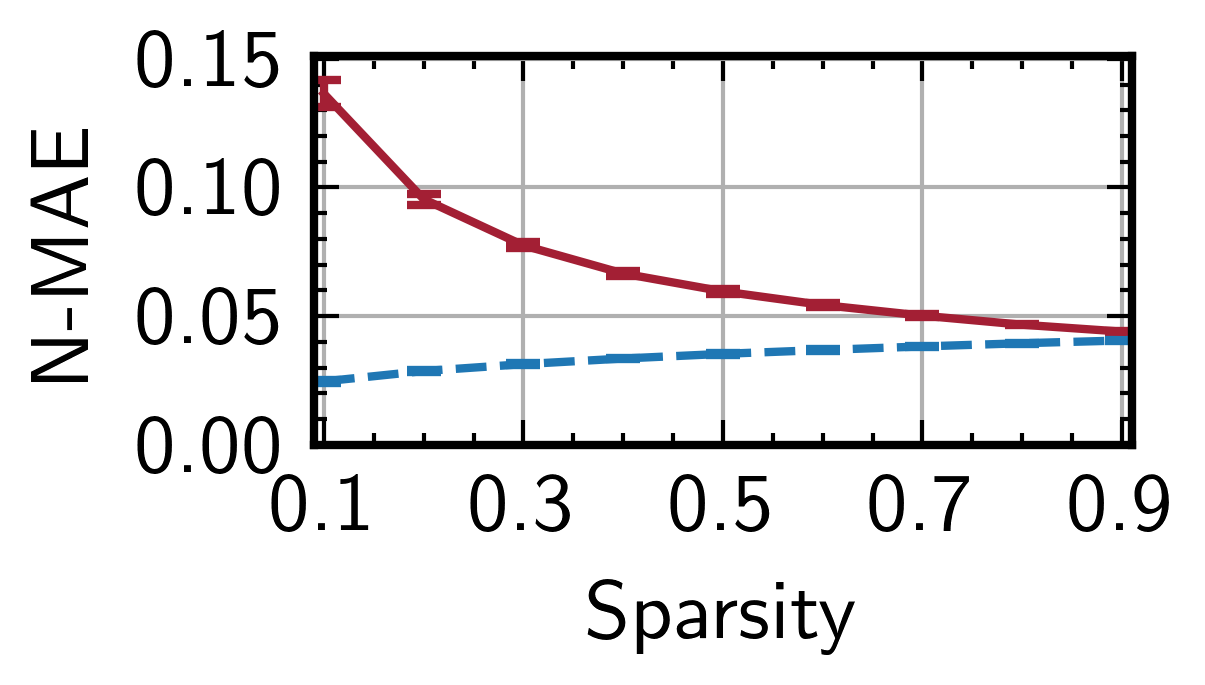
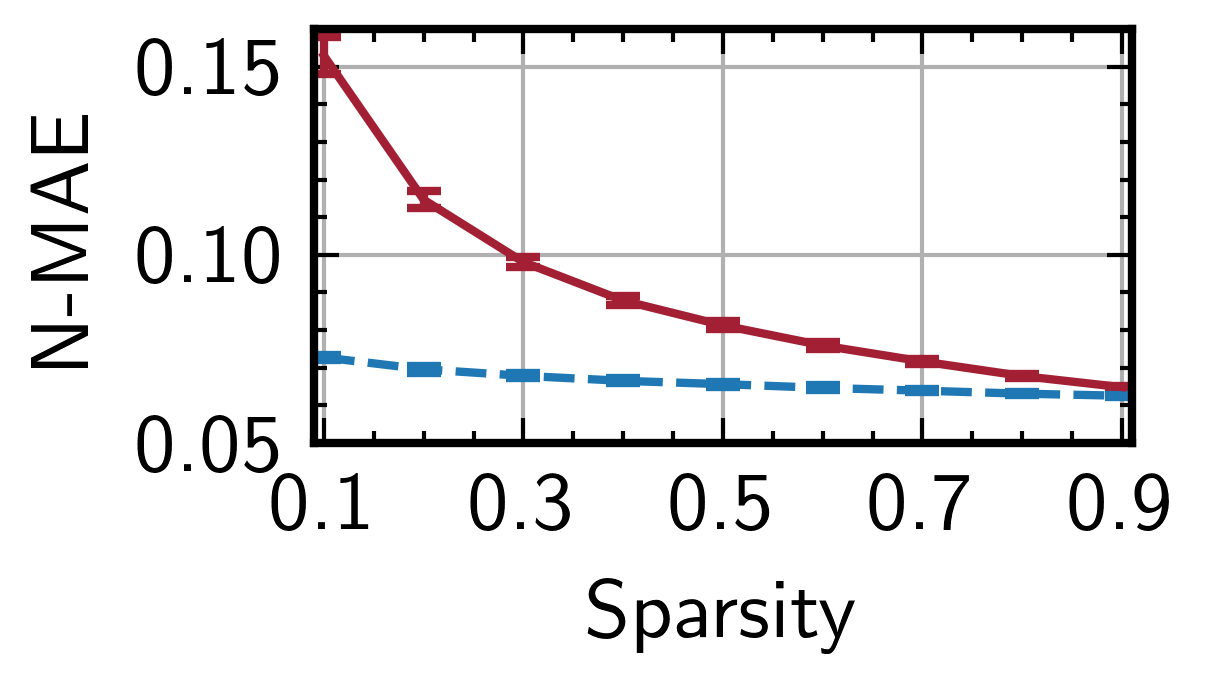
add output noise

diff --git a/scripts/fmnist/cnn/train/test_crosstalk.py b/scripts/fmnist/cnn/train/test_crosstalk.py
@@ -1,7 +1,7 @@
 '''
 Date: 2024-04-27 23:07:24
 LastEditors: Jiaqi Gu && jiaqigu@asu.edu
-LastEditTime: 2024-04-27 23:07:32
+LastEditTime: 2024-04-29 14:07:34
 FilePath: /SparseTeMPO/scripts/fmnist/cnn/train/test_crosstalk.py
 '''
 """
@@ -35,7 +35,7 @@ configs.load(config_file, recursive=True)
 
 
 def task_launcher(args):
-    lr, w_bit, in_bit, death_mode, growth_mode, init_mode, conv_block, id, gpu_id = args
+    lr, w_bit, in_bit, death_mode, growth_mode, init_mode, conv_block, ckpt, id, gpu_id = args
     pres = [f"export CUDA_VISIBLE_DEVICES={gpu_id};", "python3", script, config_file]
     with open(
         os.path.join(
@@ -53,10 +53,12 @@ def task_launcher(args):
             f"--model.dst_scheduler={None}",
             f"--dst_scheduler={None}",
             f"--model.conv_cfg.miniblock=[{','.join([str(i) for i in conv_block])}]",
+            f"--model.linear_cfg.miniblock=[{','.join([str(i) for i in conv_block])}]",
             f"--model.conv_cfg.in_bit={in_bit}",
             f"--model.linear_cfg.in_bit={in_bit}",
             f"--checkpoint.resume={True}",
-            f"--checkpoint.restore_checkpoint=./checkpoint/fmnist/cnn/train/TeMPO_CNN_pretrain_lr-0.0020_wb-8_ib-6_cb-[8,8,8,8]_run-4_acc-92.18_epoch-44.pt",
+            f"--checkpoint.restore_checkpoint={ckpt}",
+            f"--noise.output_noise_std=0.01",
             f"--checkpoint.model_comment=pretrain_lr-{lr:.4f}_wb-{w_bit}_ib-{in_bit}_cb-[{','.join([str(i) for i in conv_block])}]_run-{id}",
         ]
         cmd = " ".join(pres + exp)
@@ -70,7 +72,7 @@ if __name__ == "__main__":
     mlflow.set_experiment(configs.run.experiment)  # set experiments first
 
     tasks = [
-        (0.002, 8, 6, "magnitude", "gradient", "uniform", [8, 8, 8, 8], 2, 1),  # adam
+        (0.002, 8, 6, "magnitude", "gradient", "uniform", [1, 1, 16, 16], "./checkpoint/fmnist/cnn/train/TeMPO_CNN_pretrain_lr-0.0020_wb-8_ib-6_cb-[1,1,16,16]_crstlk-0_run-4_acc-92.15_epoch-18.pt", 4, 3),  # adam
     ]
     with Pool(10) as p:
         p.map(task_launcher, tasks)

diff --git a/unitest/plot.py b/unitest/plot.py
@@ -357,6 +357,26 @@ def plot_output_noise():
             {"row_mask": [layer.weight.shape[0], layer.weight.shape[1], layer.weight.shape[2], 1, layer.weight.shape[4], 1], 
             "col_mask": [layer.weight.shape[0], layer.weight.shape[1], 1, layer.weight.shape[3], 1, layer.weight.shape[5]]}, device=device
         )
+    crosstalk_scheduler = CrosstalkScheduler(
+        crosstalk_coupling_factor=[
+            3.55117528e-07,
+            -1.55789201e-05,
+            -8.29631681e-06,
+            9.89616761e-03,
+            -1.76013871e-01,
+            1,
+        ],  # y=p1*x^5+p2*x^4+p3*x^3+p4*x^2+p5*x+p6
+        crosstalk_exp_coupling_factor=[
+            0.2167267,
+            -0.12747211,
+        ],  # a * exp(b*x)
+        interv_h=9+6+5,
+        interv_v=120,
+        interv_s=9,
+        device=device,
+    )
+    layer.crosstalk_scheduler = crosstalk_scheduler
+    layer.set_crosstalk_noise(True)
     layer.prune_mask = mask
     layer.set_output_noise(0.001)
     nmae_nodist = []
@@ -415,7 +435,8 @@ def plot_output_noise():
         ax=ax,
         xrange=[sparsity_range[0], sparsity_range[-1] + 0.01, 0.2],
         xlimit=[sparsity_range[0]-0.01, sparsity_range[-1]+0.01],
-        yrange=[0, 0.151, 0.05],
+        yrange=[0.05, 0.151, 0.05],
+        ylimit=[0.05, 0.16],
         xformat="%.1f",
         yformat="%.2f",
         figscale=[0.65, 0.45 * 9.1 / 8],
@@ -443,7 +464,8 @@ def plot_output_noise():
         ax=ax,
         xrange=[sparsity_range[0], sparsity_range[-1] + 0.01, 0.2],
         xlimit=[sparsity_range[0]-0.01, sparsity_range[-1]+0.01],
-        yrange=[0, 0.151, 0.05],
+        yrange=[0.05, 0.151, 0.05],
+        ylimit=[0.05, 0.16],
         xformat="%.1f",
         yformat="%.2f",
         figscale=[0.65, 0.45 * 9.1 / 8],

diff --git a/crosstalk_spacing.py b/crosstalk_spacing.py
@@ -402,6 +402,7 @@ def main() -> None:
         
         model.set_noise_flag(True)
         model.set_crosstalk_noise(True)
+        model.set_output_noise(configs.noise.output_noise_std)
 
         interv_s_minax = [7, 25]
         interv_s_range = np.arange(interv_s_minax[0], interv_s_minax[1] + 0.1, 2)
@@ -417,17 +418,25 @@ def main() -> None:
                 model.crosstalk_scheduler.set_spacing(
                     interv_s=interv_s, interv_h=interv_h
                 )
-                acc = test(
-                    model,
-                    test_loader,
-                    0,
-                    criterion,
-                    [],
-                    [],
-                    device,
-                    mixup_fn=None,
-                    fp16=False,
-                )
+                if configs.noise.output_noise_std > 0:
+                    N = 3
+                else:
+                    N = 1
+                accs = []
+                for i in range(N):
+                    acc = test(
+                        model,
+                        test_loader,
+                        0,
+                        criterion,
+                        [],
+                        [],
+                        device,
+                        mixup_fn=None,
+                        fp16=False,
+                    )
+                    accs.append(acc)
+                acc = np.mean(accs)
                 acc_list.append((interv_s, interv_h_s, acc))
                 print(f"interv_s: {interv_s}, interv_h: {interv_h}, acc: {acc}")
             next(iter(test_loader))[0].shape

diff --git a/core/models/layers/base_layer.py b/core/models/layers/base_layer.py
@@ -744,7 +744,7 @@ class ONNBaseLayer(nn.Module):
             * epsilon_matrix.shape[1]
         )  # Rk + R^3
         return self.row_ind, self.col_ind, cycles
-
+        
     def forward(self, x):
         raise NotImplementedError
 
